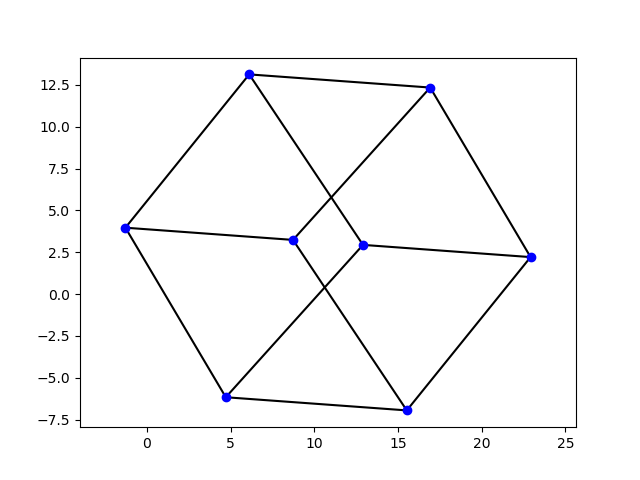
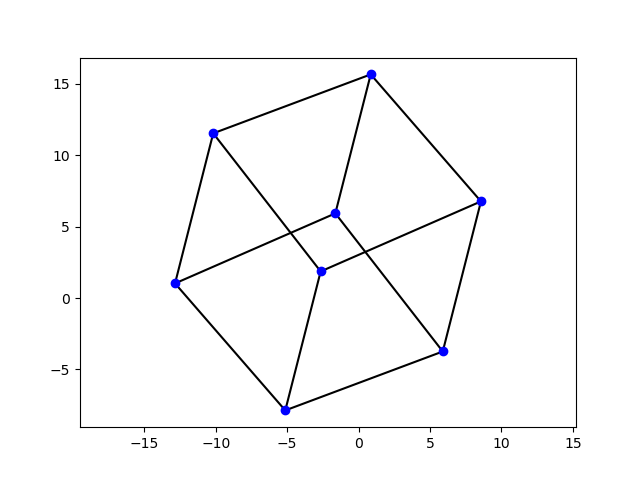
少し修正

diff --git a/symdoc17/kk.html b/symdoc17/kk.html
@@ -22,14 +22,14 @@
 <h2 id="近似解の導出">近似解の導出</h2>
 <p>まず、<span class="math inline">\(\|\frac{d}{d P_{m}} E{\left (P_{m} \right )}\||\)</span>が最大となる添字<span class="math inline">\(i\)</span>を探す(<span class="math inline">\(P_i\)</span>はベクトルであることに注意)。 このとき、<span class="math inline">\(P_i\)</span>の各成分を変数としたときのEのヤコビアンを<span class="math inline">\(J_i\)</span>、ヘッシアンを<span class="math inline">\(H_i\)</span>として <span class="math display">\[H_m \Delta P_m = -J_m\]</span> により変位<span class="math inline">\(\Delta P_i\)</span>を求め、<span class="math inline">\(P_i = P_i + \Delta P_i\)</span>により座標を更新する。 例えば、<span class="math inline">\(i=1\)</span>だとすると、<span class="math inline">\(\Delta P_1を求める式は\)</span> <span class="math display">\[\left(\begin{matrix}\frac{\left(\sqrt{\left(- P_{0,0} + P_{1,0}\right)^{2} + \left(- P_{0,1} + P_{1,1}\right)^{2}} - l_{1,0}\right) k_{1,0}}{2 \sqrt{\left(- P_{0,0} + P_{1,0}\right)^{2} + \left(- P_{0,1} + P_{1,1}\right)^{2}}} + \frac{\left(\sqrt{\left(- P_{0,0} + P_{1,0}\right)^{2} + \left(- P_{0,1} + P_{1,1}\right)^{2}} - l_{1,0}\right) \left(- P_{0,0} + P_{1,0}\right) \left(P_{0,0} - P_{1,0}\right) k_{1,0}}{2 \left(\left(- P_{0,0} + P_{1,0}\right)^{2} + \left(- P_{0,1} + P_{1,1}\right)^{2}\right)^{\frac{3}{2}}} + \frac{\left(\sqrt{\left(P_{0,0} - P_{1,0}\right)^{2} + \left(P_{0,1} - P_{1,1}\right)^{2}} - l_{0,1}\right) k_{0,1}}{2 \sqrt{\left(P_{0,0} - P_{1,0}\right)^{2} + \left(P_{0,1} - P_{1,1}\right)^{2}}} + \frac{k_{0,1}}{2 \left(\left(P_{0,0} - P_{1,0}\right)^{2} + \left(P_{0,1} - P_{1,1}\right)^{2}\right)^{\frac{3}{2}}} \left(\sqrt{\left(P_{0,0} - P_{1,0}\right)^{2} + \left(P_{0,1} - P_{1,1}\right)^{2}} - l_{0,1}\right) \left(- P_{0,0} + P_{1,0}\right) \left(P_{0,0} - P_{1,0}\right) + \frac{\left(\sqrt{\left(- P_{1,0} + P_{2,0}\right)^{2} + \left(- P_{1,1} + P_{2,1}\right)^{2}} - l_{2,1}\right) k_{2,1}}{2 \sqrt{\left(- P_{1,0} + P_{2,0}\right)^{2} + \left(- P_{1,1} + P_{2,1}\right)^{2}}} + \frac{\left(\sqrt{\left(- P_{1,0} + P_{2,0}\right)^{2} + \left(- P_{1,1} + P_{2,1}\right)^{2}} - l_{2,1}\right) \left(- P_{1,0} + P_{2,0}\right) \left(P_{1,0} - P_{2,0}\right) k_{2,1}}{2 \left(\left(- P_{1,0} + P_{2,0}\right)^{2} + \left(- P_{1,1} + P_{2,1}\right)^{2}\right)^{\frac{3}{2}}} + \frac{\left(\sqrt{\left(P_{1,0} - P_{2,0}\right)^{2} + \left(P_{1,1} - P_{2,1}\right)^{2}} - l_{1,2}\right) k_{1,2}}{2 \sqrt{\left(P_{1,0} - P_{2,0}\right)^{2} + \left(P_{1,1} - P_{2,1}\right)^{2}}} + \frac{k_{1,2}}{2 \left(\left(P_{1,0} - P_{2,0}\right)^{2} + \left(P_{1,1} - P_{2,1}\right)^{2}\right)^{\frac{3}{2}}} \left(\sqrt{\left(P_{1,0} - P_{2,0}\right)^{2} + \left(P_{1,1} - P_{2,1}\right)^{2}} - l_{1,2}\right) \left(- P_{1,0} + P_{2,0}\right) \left(P_{1,0} - P_{2,0}\right) + \frac{\left(P_{1,0} - P_{2,0}\right)^{2} k_{1,2}}{2 \left(\left(P_{1,0} - P_{2,0}\right)^{2} + \left(P_{1,1} - P_{2,1}\right)^{2}\right)} + \frac{\left(P_{1,0} - P_{2,0}\right)^{2} k_{2,1}}{2 \left(\left(- P_{1,0} + P_{2,0}\right)^{2} + \left(- P_{1,1} + P_{2,1}\right)^{2}\right)} + \frac{\left(- P_{0,0} + P_{1,0}\right)^{2} k_{0,1}}{2 \left(\left(P_{0,0} - P_{1,0}\right)^{2} + \left(P_{0,1} - P_{1,1}\right)^{2}\right)} + \frac{\left(- P_{0,0} + P_{1,0}\right)^{2} k_{1,0}}{2 \left(\left(- P_{0,0} + P_{1,0}\right)^{2} + \left(- P_{0,1} + P_{1,1}\right)^{2}\right)} &amp; \frac{\left(\sqrt{\left(- P_{0,0} + P_{1,0}\right)^{2} + \left(- P_{0,1} + P_{1,1}\right)^{2}} - l_{1,0}\right) \left(- P_{0,0} + P_{1,0}\right) \left(P_{0,1} - P_{1,1}\right) k_{1,0}}{2 \left(\left(- P_{0,0} + P_{1,0}\right)^{2} + \left(- P_{0,1} + P_{1,1}\right)^{2}\right)^{\frac{3}{2}}} + \frac{k_{0,1}}{2 \left(\left(P_{0,0} - P_{1,0}\right)^{2} + \left(P_{0,1} - P_{1,1}\right)^{2}\right)^{\frac{3}{2}}} \left(\sqrt{\left(P_{0,0} - P_{1,0}\right)^{2} + \left(P_{0,1} - P_{1,1}\right)^{2}} - l_{0,1}\right) \left(- P_{0,0} + P_{1,0}\right) \left(P_{0,1} - P_{1,1}\right) + \frac{\left(\sqrt{\left(- P_{1,0} + P_{2,0}\right)^{2} + \left(- P_{1,1} + P_{2,1}\right)^{2}} - l_{2,1}\right) \left(P_{1,0} - P_{2,0}\right) \left(- P_{1,1} + P_{2,1}\right) k_{2,1}}{2 \left(\left(- P_{1,0} + P_{2,0}\right)^{2} + \left(- P_{1,1} + P_{2,1}\right)^{2}\right)^{\frac{3}{2}}} + \frac{k_{1,2}}{2 \left(\left(P_{1,0} - P_{2,0}\right)^{2} + \left(P_{1,1} - P_{2,1}\right)^{2}\right)^{\frac{3}{2}}} \left(\sqrt{\left(P_{1,0} - P_{2,0}\right)^{2} + \left(P_{1,1} - P_{2,1}\right)^{2}} - l_{1,2}\right) \left(P_{1,0} - P_{2,0}\right) \left(- P_{1,1} + P_{2,1}\right) + \frac{\left(P_{1,0} - P_{2,0}\right) \left(P_{1,1} - P_{2,1}\right) k_{1,2}}{2 \left(\left(P_{1,0} - P_{2,0}\right)^{2} + \left(P_{1,1} - P_{2,1}\right)^{2}\right)} + \frac{\left(P_{1,0} - P_{2,0}\right) \left(P_{1,1} - P_{2,1}\right) k_{2,1}}{2 \left(\left(- P_{1,0} + P_{2,0}\right)^{2} + \left(- P_{1,1} + P_{2,1}\right)^{2}\right)} + \frac{\left(- P_{0,0} + P_{1,0}\right) \left(- P_{0,1} + P_{1,1}\right) k_{0,1}}{2 \left(\left(P_{0,0} - P_{1,0}\right)^{2} + \left(P_{0,1} - P_{1,1}\right)^{2}\right)} + \frac{\left(- P_{0,0} + P_{1,0}\right) \left(- P_{0,1} + P_{1,1}\right) k_{1,0}}{2 \left(\left(- P_{0,0} + P_{1,0}\right)^{2} + \left(- P_{0,1} + P_{1,1}\right)^{2}\right)}\\\frac{\left(\sqrt{\left(- P_{0,0} + P_{1,0}\right)^{2} + \left(- P_{0,1} + P_{1,1}\right)^{2}} - l_{1,0}\right) \left(- P_{0,0} + P_{1,0}\right) \left(P_{0,1} - P_{1,1}\right) k_{1,0}}{2 \left(\left(- P_{0,0} + P_{1,0}\right)^{2} + \left(- P_{0,1} + P_{1,1}\right)^{2}\right)^{\frac{3}{2}}} + \frac{k_{0,1}}{2 \left(\left(P_{0,0} - P_{1,0}\right)^{2} + \left(P_{0,1} - P_{1,1}\right)^{2}\right)^{\frac{3}{2}}} \left(\sqrt{\left(P_{0,0} - P_{1,0}\right)^{2} + \left(P_{0,1} - P_{1,1}\right)^{2}} - l_{0,1}\right) \left(- P_{0,0} + P_{1,0}\right) \left(P_{0,1} - P_{1,1}\right) + \frac{\left(\sqrt{\left(- P_{1,0} + P_{2,0}\right)^{2} + \left(- P_{1,1} + P_{2,1}\right)^{2}} - l_{2,1}\right) \left(P_{1,0} - P_{2,0}\right) \left(- P_{1,1} + P_{2,1}\right) k_{2,1}}{2 \left(\left(- P_{1,0} + P_{2,0}\right)^{2} + \left(- P_{1,1} + P_{2,1}\right)^{2}\right)^{\frac{3}{2}}} + \frac{k_{1,2}}{2 \left(\left(P_{1,0} - P_{2,0}\right)^{2} + \left(P_{1,1} - P_{2,1}\right)^{2}\right)^{\frac{3}{2}}} \left(\sqrt{\left(P_{1,0} - P_{2,0}\right)^{2} + \left(P_{1,1} - P_{2,1}\right)^{2}} - l_{1,2}\right) \left(P_{1,0} - P_{2,0}\right) \left(- P_{1,1} + P_{2,1}\right) + \frac{\left(P_{1,0} - P_{2,0}\right) \left(P_{1,1} - P_{2,1}\right) k_{1,2}}{2 \left(\left(P_{1,0} - P_{2,0}\right)^{2} + \left(P_{1,1} - P_{2,1}\right)^{2}\right)} + \frac{\left(P_{1,0} - P_{2,0}\right) \left(P_{1,1} - P_{2,1}\right) k_{2,1}}{2 \left(\left(- P_{1,0} + P_{2,0}\right)^{2} + \left(- P_{1,1} + P_{2,1}\right)^{2}\right)} + \frac{\left(- P_{0,0} + P_{1,0}\right) \left(- P_{0,1} + P_{1,1}\right) k_{0,1}}{2 \left(\left(P_{0,0} - P_{1,0}\right)^{2} + \left(P_{0,1} - P_{1,1}\right)^{2}\right)} + \frac{\left(- P_{0,0} + P_{1,0}\right) \left(- P_{0,1} + P_{1,1}\right) k_{1,0}}{2 \left(\left(- P_{0,0} + P_{1,0}\right)^{2} + \left(- P_{0,1} + P_{1,1}\right)^{2}\right)} &amp; \frac{\left(\sqrt{\left(- P_{0,0} + P_{1,0}\right)^{2} + \left(- P_{0,1} + P_{1,1}\right)^{2}} - l_{1,0}\right) k_{1,0}}{2 \sqrt{\left(- P_{0,0} + P_{1,0}\right)^{2} + \left(- P_{0,1} + P_{1,1}\right)^{2}}} + \frac{\left(\sqrt{\left(- P_{0,0} + P_{1,0}\right)^{2} + \left(- P_{0,1} + P_{1,1}\right)^{2}} - l_{1,0}\right) \left(- P_{0,1} + P_{1,1}\right) \left(P_{0,1} - P_{1,1}\right) k_{1,0}}{2 \left(\left(- P_{0,0} + P_{1,0}\right)^{2} + \left(- P_{0,1} + P_{1,1}\right)^{2}\right)^{\frac{3}{2}}} + \frac{\left(\sqrt{\left(P_{0,0} - P_{1,0}\right)^{2} + \left(P_{0,1} - P_{1,1}\right)^{2}} - l_{0,1}\right) k_{0,1}}{2 \sqrt{\left(P_{0,0} - P_{1,0}\right)^{2} + \left(P_{0,1} - P_{1,1}\right)^{2}}} + \frac{k_{0,1}}{2 \left(\left(P_{0,0} - P_{1,0}\right)^{2} + \left(P_{0,1} - P_{1,1}\right)^{2}\right)^{\frac{3}{2}}} \left(\sqrt{\left(P_{0,0} - P_{1,0}\right)^{2} + \left(P_{0,1} - P_{1,1}\right)^{2}} - l_{0,1}\right) \left(- P_{0,1} + P_{1,1}\right) \left(P_{0,1} - P_{1,1}\right) + \frac{\left(\sqrt{\left(- P_{1,0} + P_{2,0}\right)^{2} + \left(- P_{1,1} + P_{2,1}\right)^{2}} - l_{2,1}\right) k_{2,1}}{2 \sqrt{\left(- P_{1,0} + P_{2,0}\right)^{2} + \left(- P_{1,1} + P_{2,1}\right)^{2}}} + \frac{\left(\sqrt{\left(- P_{1,0} + P_{2,0}\right)^{2} + \left(- P_{1,1} + P_{2,1}\right)^{2}} - l_{2,1}\right) \left(- P_{1,1} + P_{2,1}\right) \left(P_{1,1} - P_{2,1}\right) k_{2,1}}{2 \left(\left(- P_{1,0} + P_{2,0}\right)^{2} + \left(- P_{1,1} + P_{2,1}\right)^{2}\right)^{\frac{3}{2}}} + \frac{\left(\sqrt{\left(P_{1,0} - P_{2,0}\right)^{2} + \left(P_{1,1} - P_{2,1}\right)^{2}} - l_{1,2}\right) k_{1,2}}{2 \sqrt{\left(P_{1,0} - P_{2,0}\right)^{2} + \left(P_{1,1} - P_{2,1}\right)^{2}}} + \frac{k_{1,2}}{2 \left(\left(P_{1,0} - P_{2,0}\right)^{2} + \left(P_{1,1} - P_{2,1}\right)^{2}\right)^{\frac{3}{2}}} \left(\sqrt{\left(P_{1,0} - P_{2,0}\right)^{2} + \left(P_{1,1} - P_{2,1}\right)^{2}} - l_{1,2}\right) \left(- P_{1,1} + P_{2,1}\right) \left(P_{1,1} - P_{2,1}\right) + \frac{\left(P_{1,1} - P_{2,1}\right)^{2} k_{1,2}}{2 \left(\left(P_{1,0} - P_{2,0}\right)^{2} + \left(P_{1,1} - P_{2,1}\right)^{2}\right)} + \frac{\left(P_{1,1} - P_{2,1}\right)^{2} k_{2,1}}{2 \left(\left(- P_{1,0} + P_{2,0}\right)^{2} + \left(- P_{1,1} + P_{2,1}\right)^{2}\right)} + \frac{\left(- P_{0,1} + P_{1,1}\right)^{2} k_{0,1}}{2 \left(\left(P_{0,0} - P_{1,0}\right)^{2} + \left(P_{0,1} - P_{1,1}\right)^{2}\right)} + \frac{\left(- P_{0,1} + P_{1,1}\right)^{2} k_{1,0}}{2 \left(\left(- P_{0,0} + P_{1,0}\right)^{2} + \left(- P_{0,1} + P_{1,1}\right)^{2}\right)}\end{matrix}\right)\Delta P_1 = -\left(\begin{matrix}\frac{1}{2 \sqrt{\left(P_{0,0} - P_{1,0}\right)^{2} + \left(P_{0,1} - P_{1,1}\right)^{2}} \sqrt{\left(P_{1,0} - P_{2,0}\right)^{2} + \left(P_{1,1} - P_{2,1}\right)^{2}}} \left(- \left(\left(\sqrt{\left(P_{0,0} - P_{1,0}\right)^{2} + \left(P_{0,1} - P_{1,1}\right)^{2}} - l_{0,1}\right) k_{0,1} + \left(\sqrt{\left(P_{0,0} - P_{1,0}\right)^{2} + \left(P_{0,1} - P_{1,1}\right)^{2}} - l_{1,0}\right) k_{1,0}\right) \sqrt{\left(P_{1,0} - P_{2,0}\right)^{2} + \left(P_{1,1} - P_{2,1}\right)^{2}} \left(P_{0,0} - P_{1,0}\right) + \left(\left(\sqrt{\left(P_{1,0} - P_{2,0}\right)^{2} + \left(P_{1,1} - P_{2,1}\right)^{2}} - l_{1,2}\right) k_{1,2} + \left(\sqrt{\left(P_{1,0} - P_{2,0}\right)^{2} + \left(P_{1,1} - P_{2,1}\right)^{2}} - l_{2,1}\right) k_{2,1}\right) \sqrt{\left(P_{0,0} - P_{1,0}\right)^{2} + \left(P_{0,1} - P_{1,1}\right)^{2}} \left(P_{1,0} - P_{2,0}\right)\right)\\\frac{1}{2 \sqrt{\left(P_{0,0} - P_{1,0}\right)^{2} + \left(P_{0,1} - P_{1,1}\right)^{2}} \sqrt{\left(P_{1,0} - P_{2,0}\right)^{2} + \left(P_{1,1} - P_{2,1}\right)^{2}}} \left(- \left(\left(\sqrt{\left(P_{0,0} - P_{1,0}\right)^{2} + \left(P_{0,1} - P_{1,1}\right)^{2}} - l_{0,1}\right) k_{0,1} + \left(\sqrt{\left(P_{0,0} - P_{1,0}\right)^{2} + \left(P_{0,1} - P_{1,1}\right)^{2}} - l_{1,0}\right) k_{1,0}\right) \sqrt{\left(P_{1,0} - P_{2,0}\right)^{2} + \left(P_{1,1} - P_{2,1}\right)^{2}} \left(P_{0,1} - P_{1,1}\right) + \left(\left(\sqrt{\left(P_{1,0} - P_{2,0}\right)^{2} + \left(P_{1,1} - P_{2,1}\right)^{2}} - l_{1,2}\right) k_{1,2} + \left(\sqrt{\left(P_{1,0} - P_{2,0}\right)^{2} + \left(P_{1,1} - P_{2,1}\right)^{2}} - l_{2,1}\right) k_{2,1}\right) \sqrt{\left(P_{0,0} - P_{1,0}\right)^{2} + \left(P_{0,1} - P_{1,1}\right)^{2}} \left(P_{1,1} - P_{2,1}\right)\right)\end{matrix}\right) \]</span> となる。 以上を繰り返し、<span class="math inline">\(max_i \|\frac{d}{d P_{m}} E{\left (P_{m} \right )}\||\)</span>が十分小さくなったら更新を終了して その時の座標を力学的エネルギー<span class="math inline">\(E\)</span>が最小となる解とする</p>
 <h2 id="グラフdouble_triangleの描画">グラフdouble_triangleの描画</h2>
-<p>頂点を['0', '1', '2', '3', '4', '5']、隣接する点のリストを[&quot;['2', '3']&quot;, &quot;['4', '5']&quot;, &quot;['0', '3', '5']&quot;, &quot;['0', '2']&quot;, &quot;['1', '5']&quot;, &quot;['1', '2', '4']&quot;]とすると、最短経路行列<span class="math inline">\(D\)</span>,ばね定数行列<span class="math inline">\(K\)</span>,自然長行列<span class="math inline">\(L\)</span>は次のようになる。 <span class="math display">\[D = \left(\begin{matrix}2.0 &amp; 3.0 &amp; 1.0 &amp; 1.0 &amp; 3.0 &amp; 2.0\\3.0 &amp; 2.0 &amp; 2.0 &amp; 3.0 &amp; 1.0 &amp; 1.0\\1.0 &amp; 2.0 &amp; 2.0 &amp; 1.0 &amp; 2.0 &amp; 1.0\\1.0 &amp; 3.0 &amp; 1.0 &amp; 2.0 &amp; 3.0 &amp; 2.0\\3.0 &amp; 1.0 &amp; 2.0 &amp; 3.0 &amp; 2.0 &amp; 1.0\\2.0 &amp; 1.0 &amp; 1.0 &amp; 2.0 &amp; 1.0 &amp; 2.0\end{matrix}\right),K = \left(\begin{matrix}0.0 &amp; 1.11111111111111 &amp; 10.0 &amp; 10.0 &amp; 1.11111111111111 &amp; 2.5\\1.11111111111111 &amp; 0.0 &amp; 2.5 &amp; 1.11111111111111 &amp; 10.0 &amp; 10.0\\10.0 &amp; 2.5 &amp; 0.0 &amp; 10.0 &amp; 2.5 &amp; 10.0\\10.0 &amp; 1.11111111111111 &amp; 10.0 &amp; 0.0 &amp; 1.11111111111111 &amp; 2.5\\1.11111111111111 &amp; 10.0 &amp; 2.5 &amp; 1.11111111111111 &amp; 0.0 &amp; 10.0\\2.5 &amp; 10.0 &amp; 10.0 &amp; 2.5 &amp; 10.0 &amp; 0.0\end{matrix}\right),L = \left(\begin{matrix}0.0 &amp; 30.0 &amp; 10.0 &amp; 10.0 &amp; 30.0 &amp; 20.0\\30.0 &amp; 0.0 &amp; 20.0 &amp; 30.0 &amp; 10.0 &amp; 10.0\\10.0 &amp; 20.0 &amp; 0.0 &amp; 10.0 &amp; 20.0 &amp; 10.0\\10.0 &amp; 30.0 &amp; 10.0 &amp; 0.0 &amp; 30.0 &amp; 20.0\\30.0 &amp; 10.0 &amp; 20.0 &amp; 30.0 &amp; 0.0 &amp; 10.0\\20.0 &amp; 10.0 &amp; 10.0 &amp; 20.0 &amp; 10.0 &amp; 0.0\end{matrix}\right)\]</span> このとき、ランダム生成した座標からkamada-kawai法により頂点位置の最適化を行なうと、頂点座標は次のようになる。 <span class="math display">\[P = \left(\begin{matrix}10.0153452000519 &amp; -4.78212568783798\\-15.6209409469126 &amp; 10.76297622507\\0.506545926573067 &amp; -1.02375439811795\\2.38115183423247 &amp; -11.0750773868165\\-7.9870170861673 &amp; 17.0562028552577\\-6.11194112407809 &amp; 7.0049680118998\end{matrix}\right)\]</span></p>
+<p>頂点を['0', '1', '2', '3', '4', '5']、隣接する点のリストを[&quot;['2', '3']&quot;, &quot;['4', '5']&quot;, &quot;['0', '3', '5']&quot;, &quot;['0', '2']&quot;, &quot;['1', '5']&quot;, &quot;['1', '2', '4']&quot;]とすると、最短経路行列<span class="math inline">\(D\)</span>,ばね定数行列<span class="math inline">\(K\)</span>,自然長行列<span class="math inline">\(L\)</span>は次のようになる。 <span class="math display">\[D = \left(\begin{matrix}2.0 &amp; 3.0 &amp; 1.0 &amp; 1.0 &amp; 3.0 &amp; 2.0\\3.0 &amp; 2.0 &amp; 2.0 &amp; 3.0 &amp; 1.0 &amp; 1.0\\1.0 &amp; 2.0 &amp; 2.0 &amp; 1.0 &amp; 2.0 &amp; 1.0\\1.0 &amp; 3.0 &amp; 1.0 &amp; 2.0 &amp; 3.0 &amp; 2.0\\3.0 &amp; 1.0 &amp; 2.0 &amp; 3.0 &amp; 2.0 &amp; 1.0\\2.0 &amp; 1.0 &amp; 1.0 &amp; 2.0 &amp; 1.0 &amp; 2.0\end{matrix}\right),K = \left(\begin{matrix}0.0 &amp; 1.11111111111111 &amp; 10.0 &amp; 10.0 &amp; 1.11111111111111 &amp; 2.5\\1.11111111111111 &amp; 0.0 &amp; 2.5 &amp; 1.11111111111111 &amp; 10.0 &amp; 10.0\\10.0 &amp; 2.5 &amp; 0.0 &amp; 10.0 &amp; 2.5 &amp; 10.0\\10.0 &amp; 1.11111111111111 &amp; 10.0 &amp; 0.0 &amp; 1.11111111111111 &amp; 2.5\\1.11111111111111 &amp; 10.0 &amp; 2.5 &amp; 1.11111111111111 &amp; 0.0 &amp; 10.0\\2.5 &amp; 10.0 &amp; 10.0 &amp; 2.5 &amp; 10.0 &amp; 0.0\end{matrix}\right),L = \left(\begin{matrix}0.0 &amp; 30.0 &amp; 10.0 &amp; 10.0 &amp; 30.0 &amp; 20.0\\30.0 &amp; 0.0 &amp; 20.0 &amp; 30.0 &amp; 10.0 &amp; 10.0\\10.0 &amp; 20.0 &amp; 0.0 &amp; 10.0 &amp; 20.0 &amp; 10.0\\10.0 &amp; 30.0 &amp; 10.0 &amp; 0.0 &amp; 30.0 &amp; 20.0\\30.0 &amp; 10.0 &amp; 20.0 &amp; 30.0 &amp; 0.0 &amp; 10.0\\20.0 &amp; 10.0 &amp; 10.0 &amp; 20.0 &amp; 10.0 &amp; 0.0\end{matrix}\right)\]</span> このとき、ランダム生成した座標からkamada-kawai法により頂点位置の最適化を行なうと、頂点座標は次のようになる。 <span class="math display">\[P = \left(\begin{matrix}-16.4912255605531 &amp; -1.89219518309712\\4.67379361564487 &amp; -20.6809756065376\\-6.51518029198303 &amp; -4.13322957125895\\-9.92327917305086 &amp; 5.50669496027274\\11.2420455112549 &amp; -13.2823128128761\\1.26614101082084 &amp; -11.0408920657143\end{matrix}\right)\]</span></p>
 <p>プロットした画像は次のようになる。</p>
 <div class="figure">
 <img src="pics/double_triangle.png" alt="img" />
 <p class="caption">img</p>
 </div>
 <h2 id="グラフcubeの描画">グラフcubeの描画</h2>
-<p>頂点を['0', '1', '2', '3', '4', '5', '6', '7']、隣接する点のリストを[&quot;['1', '3', '4']&quot;, &quot;['0', '2', '5']&quot;, &quot;['1', '3', '6']&quot;, &quot;['0', '2', '7']&quot;, &quot;['0', '5', '7']&quot;, &quot;['1', '4', '6']&quot;, &quot;['2', '5', '7']&quot;, &quot;['3', '4', '6']&quot;]とすると、最短経路行列<span class="math inline">\(D\)</span>,ばね定数行列<span class="math inline">\(K\)</span>,自然長行列<span class="math inline">\(L\)</span>は次のようになる。 <span class="math display">\[D = \left(\begin{matrix}2.0 &amp; 1.0 &amp; 2.0 &amp; 1.0 &amp; 1.0 &amp; 2.0 &amp; 3.0 &amp; 2.0\\1.0 &amp; 2.0 &amp; 1.0 &amp; 2.0 &amp; 2.0 &amp; 1.0 &amp; 2.0 &amp; 3.0\\2.0 &amp; 1.0 &amp; 2.0 &amp; 1.0 &amp; 3.0 &amp; 2.0 &amp; 1.0 &amp; 2.0\\1.0 &amp; 2.0 &amp; 1.0 &amp; 2.0 &amp; 2.0 &amp; 3.0 &amp; 2.0 &amp; 1.0\\1.0 &amp; 2.0 &amp; 3.0 &amp; 2.0 &amp; 2.0 &amp; 1.0 &amp; 2.0 &amp; 1.0\\2.0 &amp; 1.0 &amp; 2.0 &amp; 3.0 &amp; 1.0 &amp; 2.0 &amp; 1.0 &amp; 2.0\\3.0 &amp; 2.0 &amp; 1.0 &amp; 2.0 &amp; 2.0 &amp; 1.0 &amp; 2.0 &amp; 1.0\\2.0 &amp; 3.0 &amp; 2.0 &amp; 1.0 &amp; 1.0 &amp; 2.0 &amp; 1.0 &amp; 2.0\end{matrix}\right),K = \left(\begin{matrix}0.0 &amp; 10.0 &amp; 2.5 &amp; 10.0 &amp; 10.0 &amp; 2.5 &amp; 1.11111111111111 &amp; 2.5\\10.0 &amp; 0.0 &amp; 10.0 &amp; 2.5 &amp; 2.5 &amp; 10.0 &amp; 2.5 &amp; 1.11111111111111\\2.5 &amp; 10.0 &amp; 0.0 &amp; 10.0 &amp; 1.11111111111111 &amp; 2.5 &amp; 10.0 &amp; 2.5\\10.0 &amp; 2.5 &amp; 10.0 &amp; 0.0 &amp; 2.5 &amp; 1.11111111111111 &amp; 2.5 &amp; 10.0\\10.0 &amp; 2.5 &amp; 1.11111111111111 &amp; 2.5 &amp; 0.0 &amp; 10.0 &amp; 2.5 &amp; 10.0\\2.5 &amp; 10.0 &amp; 2.5 &amp; 1.11111111111111 &amp; 10.0 &amp; 0.0 &amp; 10.0 &amp; 2.5\\1.11111111111111 &amp; 2.5 &amp; 10.0 &amp; 2.5 &amp; 2.5 &amp; 10.0 &amp; 0.0 &amp; 10.0\\2.5 &amp; 1.11111111111111 &amp; 2.5 &amp; 10.0 &amp; 10.0 &amp; 2.5 &amp; 10.0 &amp; 0.0\end{matrix}\right),L = \left(\begin{matrix}0.0 &amp; 10.0 &amp; 20.0 &amp; 10.0 &amp; 10.0 &amp; 20.0 &amp; 30.0 &amp; 20.0\\10.0 &amp; 0.0 &amp; 10.0 &amp; 20.0 &amp; 20.0 &amp; 10.0 &amp; 20.0 &amp; 30.0\\20.0 &amp; 10.0 &amp; 0.0 &amp; 10.0 &amp; 30.0 &amp; 20.0 &amp; 10.0 &amp; 20.0\\10.0 &amp; 20.0 &amp; 10.0 &amp; 0.0 &amp; 20.0 &amp; 30.0 &amp; 20.0 &amp; 10.0\\10.0 &amp; 20.0 &amp; 30.0 &amp; 20.0 &amp; 0.0 &amp; 10.0 &amp; 20.0 &amp; 10.0\\20.0 &amp; 10.0 &amp; 20.0 &amp; 30.0 &amp; 10.0 &amp; 0.0 &amp; 10.0 &amp; 20.0\\30.0 &amp; 20.0 &amp; 10.0 &amp; 20.0 &amp; 20.0 &amp; 10.0 &amp; 0.0 &amp; 10.0\\20.0 &amp; 30.0 &amp; 20.0 &amp; 10.0 &amp; 10.0 &amp; 20.0 &amp; 10.0 &amp; 0.0\end{matrix}\right)\]</span> このとき、ランダム生成した座標からkamada-kawai法により頂点位置の最適化を行なうと、頂点座標は次のようになる。 <span class="math display">\[P = \left(\begin{matrix}8.72943602668481 &amp; 3.23905673749775\\15.5280870507712 &amp; -6.94650275884476\\4.714943362793 &amp; -6.16056225587634\\-1.28270289126781 &amp; 3.96868156153436\\16.9263133044473 &amp; 12.3416486584704\\22.9239485695035 &amp; 2.2123941380819\\12.9118135158373 &amp; 2.94207317764793\\6.11314925797029 &amp; 13.127590656225\end{matrix}\right)\]</span></p>
+<p>頂点を['0', '1', '2', '3', '4', '5', '6', '7']、隣接する点のリストを[&quot;['1', '3', '4']&quot;, &quot;['0', '2', '5']&quot;, &quot;['1', '3', '6']&quot;, &quot;['0', '2', '7']&quot;, &quot;['0', '5', '7']&quot;, &quot;['1', '4', '6']&quot;, &quot;['2', '5', '7']&quot;, &quot;['3', '4', '6']&quot;]とすると、最短経路行列<span class="math inline">\(D\)</span>,ばね定数行列<span class="math inline">\(K\)</span>,自然長行列<span class="math inline">\(L\)</span>は次のようになる。 <span class="math display">\[D = \left(\begin{matrix}2.0 &amp; 1.0 &amp; 2.0 &amp; 1.0 &amp; 1.0 &amp; 2.0 &amp; 3.0 &amp; 2.0\\1.0 &amp; 2.0 &amp; 1.0 &amp; 2.0 &amp; 2.0 &amp; 1.0 &amp; 2.0 &amp; 3.0\\2.0 &amp; 1.0 &amp; 2.0 &amp; 1.0 &amp; 3.0 &amp; 2.0 &amp; 1.0 &amp; 2.0\\1.0 &amp; 2.0 &amp; 1.0 &amp; 2.0 &amp; 2.0 &amp; 3.0 &amp; 2.0 &amp; 1.0\\1.0 &amp; 2.0 &amp; 3.0 &amp; 2.0 &amp; 2.0 &amp; 1.0 &amp; 2.0 &amp; 1.0\\2.0 &amp; 1.0 &amp; 2.0 &amp; 3.0 &amp; 1.0 &amp; 2.0 &amp; 1.0 &amp; 2.0\\3.0 &amp; 2.0 &amp; 1.0 &amp; 2.0 &amp; 2.0 &amp; 1.0 &amp; 2.0 &amp; 1.0\\2.0 &amp; 3.0 &amp; 2.0 &amp; 1.0 &amp; 1.0 &amp; 2.0 &amp; 1.0 &amp; 2.0\end{matrix}\right),K = \left(\begin{matrix}0.0 &amp; 10.0 &amp; 2.5 &amp; 10.0 &amp; 10.0 &amp; 2.5 &amp; 1.11111111111111 &amp; 2.5\\10.0 &amp; 0.0 &amp; 10.0 &amp; 2.5 &amp; 2.5 &amp; 10.0 &amp; 2.5 &amp; 1.11111111111111\\2.5 &amp; 10.0 &amp; 0.0 &amp; 10.0 &amp; 1.11111111111111 &amp; 2.5 &amp; 10.0 &amp; 2.5\\10.0 &amp; 2.5 &amp; 10.0 &amp; 0.0 &amp; 2.5 &amp; 1.11111111111111 &amp; 2.5 &amp; 10.0\\10.0 &amp; 2.5 &amp; 1.11111111111111 &amp; 2.5 &amp; 0.0 &amp; 10.0 &amp; 2.5 &amp; 10.0\\2.5 &amp; 10.0 &amp; 2.5 &amp; 1.11111111111111 &amp; 10.0 &amp; 0.0 &amp; 10.0 &amp; 2.5\\1.11111111111111 &amp; 2.5 &amp; 10.0 &amp; 2.5 &amp; 2.5 &amp; 10.0 &amp; 0.0 &amp; 10.0\\2.5 &amp; 1.11111111111111 &amp; 2.5 &amp; 10.0 &amp; 10.0 &amp; 2.5 &amp; 10.0 &amp; 0.0\end{matrix}\right),L = \left(\begin{matrix}0.0 &amp; 10.0 &amp; 20.0 &amp; 10.0 &amp; 10.0 &amp; 20.0 &amp; 30.0 &amp; 20.0\\10.0 &amp; 0.0 &amp; 10.0 &amp; 20.0 &amp; 20.0 &amp; 10.0 &amp; 20.0 &amp; 30.0\\20.0 &amp; 10.0 &amp; 0.0 &amp; 10.0 &amp; 30.0 &amp; 20.0 &amp; 10.0 &amp; 20.0\\10.0 &amp; 20.0 &amp; 10.0 &amp; 0.0 &amp; 20.0 &amp; 30.0 &amp; 20.0 &amp; 10.0\\10.0 &amp; 20.0 &amp; 30.0 &amp; 20.0 &amp; 0.0 &amp; 10.0 &amp; 20.0 &amp; 10.0\\20.0 &amp; 10.0 &amp; 20.0 &amp; 30.0 &amp; 10.0 &amp; 0.0 &amp; 10.0 &amp; 20.0\\30.0 &amp; 20.0 &amp; 10.0 &amp; 20.0 &amp; 20.0 &amp; 10.0 &amp; 0.0 &amp; 10.0\\20.0 &amp; 30.0 &amp; 20.0 &amp; 10.0 &amp; 10.0 &amp; 20.0 &amp; 10.0 &amp; 0.0\end{matrix}\right)\]</span> このとき、ランダム生成した座標からkamada-kawai法により頂点位置の最適化を行なうと、頂点座標は次のようになる。 <span class="math display">\[P = \left(\begin{matrix}-5.13062160173884 &amp; -7.86762269413086\\5.89475420395003 &amp; -3.74275596540865\\-1.62626747055758 &amp; 5.92577672867832\\-12.8477788740972 &amp; 1.02224145727217\\-2.65334018396386 &amp; 1.8606042453694\\8.56813141224908 &amp; 6.76416070923899\\0.850956487510959 &amp; 15.6540182671539\\-10.1744073342397 &amp; 11.5291365304607\end{matrix}\right)\]</span></p>
 <p>プロットした画像は次のようになる。</p>
 <div class="figure">
 <img src="pics/cube.png" alt="img" />

diff --git a/symdoc17/kk.py b/symdoc17/kk.py
@@ -162,11 +162,19 @@ def setting(name,nodeList,consList,L0=10,K0=10,eps=0.01,dim=2):
     adj = convertToMatrix(nodeList,consList)
     D = warshall_floyd(adj)
 
-    P = np.array(L0*np.random.rand(n*dim).reshape(n,dim),dtype=object)
+    if(dim==2):
+        P = np.array(np.zeros((n,dim)),dtype=object)
+        for m in range(n):
+            P[m,0] = np.cos(2*np.pi/n*m)
+            P[m,1] = np.sin(2*np.pi/n*m)
+    else:
+        P = np.array(L0*np.random.rand(n*dim).reshape(n,dim),dtype=object)
+
     L = L0 * D * (-np.eye(n)+np.ones([n,n]))
     K = K0 * D**(-2) * (-np.eye(n)+np.ones([n,n]))
 
     P = kk_ver1(P,K,L)
+    #P = kk_ver2(P,K,L)
 
     if(dim==2):
         draw_2Dgraph(adj,P,name)

diff --git a/symdoc17/kk.md b/symdoc17/kk.md
@@ -53,7 +53,7 @@ $$\left(\begin{matrix}\frac{\left(\sqrt{\left(- P_{0,0} + P_{1,0}\right)^{2} + \
 頂点を['0', '1', '2', '3', '4', '5']、隣接する点のリストを["['2', '3']", "['4', '5']", "['0', '3', '5']", "['0', '2']", "['1', '5']", "['1', '2', '4']"]とすると、最短経路行列$D$,ばね定数行列$K$,自然長行列$L$は次のようになる。
 $$D = \left(\begin{matrix}2.0 & 3.0 & 1.0 & 1.0 & 3.0 & 2.0\\3.0 & 2.0 & 2.0 & 3.0 & 1.0 & 1.0\\1.0 & 2.0 & 2.0 & 1.0 & 2.0 & 1.0\\1.0 & 3.0 & 1.0 & 2.0 & 3.0 & 2.0\\3.0 & 1.0 & 2.0 & 3.0 & 2.0 & 1.0\\2.0 & 1.0 & 1.0 & 2.0 & 1.0 & 2.0\end{matrix}\right),K = \left(\begin{matrix}0.0 & 1.11111111111111 & 10.0 & 10.0 & 1.11111111111111 & 2.5\\1.11111111111111 & 0.0 & 2.5 & 1.11111111111111 & 10.0 & 10.0\\10.0 & 2.5 & 0.0 & 10.0 & 2.5 & 10.0\\10.0 & 1.11111111111111 & 10.0 & 0.0 & 1.11111111111111 & 2.5\\1.11111111111111 & 10.0 & 2.5 & 1.11111111111111 & 0.0 & 10.0\\2.5 & 10.0 & 10.0 & 2.5 & 10.0 & 0.0\end{matrix}\right),L = \left(\begin{matrix}0.0 & 30.0 & 10.0 & 10.0 & 30.0 & 20.0\\30.0 & 0.0 & 20.0 & 30.0 & 10.0 & 10.0\\10.0 & 20.0 & 0.0 & 10.0 & 20.0 & 10.0\\10.0 & 30.0 & 10.0 & 0.0 & 30.0 & 20.0\\30.0 & 10.0 & 20.0 & 30.0 & 0.0 & 10.0\\20.0 & 10.0 & 10.0 & 20.0 & 10.0 & 0.0\end{matrix}\right)$$
 このとき、ランダム生成した座標からkamada-kawai法により頂点位置の最適化を行なうと、頂点座標は次のようになる。
-$$P = \left(\begin{matrix}10.0153452000519 & -4.78212568783798\\-15.6209409469126 & 10.76297622507\\0.506545926573067 & -1.02375439811795\\2.38115183423247 & -11.0750773868165\\-7.9870170861673 & 17.0562028552577\\-6.11194112407809 & 7.0049680118998\end{matrix}\right)$$
+$$P = \left(\begin{matrix}-16.4912255605531 & -1.89219518309712\\4.67379361564487 & -20.6809756065376\\-6.51518029198303 & -4.13322957125895\\-9.92327917305086 & 5.50669496027274\\11.2420455112549 & -13.2823128128761\\1.26614101082084 & -11.0408920657143\end{matrix}\right)$$
 
 プロットした画像は次のようになる。
 
@@ -67,7 +67,7 @@ $$P = \left(\begin{matrix}10.0153452000519 & -4.78212568783798\\-15.620940946912
 頂点を['0', '1', '2', '3', '4', '5', '6', '7']、隣接する点のリストを["['1', '3', '4']", "['0', '2', '5']", "['1', '3', '6']", "['0', '2', '7']", "['0', '5', '7']", "['1', '4', '6']", "['2', '5', '7']", "['3', '4', '6']"]とすると、最短経路行列$D$,ばね定数行列$K$,自然長行列$L$は次のようになる。
 $$D = \left(\begin{matrix}2.0 & 1.0 & 2.0 & 1.0 & 1.0 & 2.0 & 3.0 & 2.0\\1.0 & 2.0 & 1.0 & 2.0 & 2.0 & 1.0 & 2.0 & 3.0\\2.0 & 1.0 & 2.0 & 1.0 & 3.0 & 2.0 & 1.0 & 2.0\\1.0 & 2.0 & 1.0 & 2.0 & 2.0 & 3.0 & 2.0 & 1.0\\1.0 & 2.0 & 3.0 & 2.0 & 2.0 & 1.0 & 2.0 & 1.0\\2.0 & 1.0 & 2.0 & 3.0 & 1.0 & 2.0 & 1.0 & 2.0\\3.0 & 2.0 & 1.0 & 2.0 & 2.0 & 1.0 & 2.0 & 1.0\\2.0 & 3.0 & 2.0 & 1.0 & 1.0 & 2.0 & 1.0 & 2.0\end{matrix}\right),K = \left(\begin{matrix}0.0 & 10.0 & 2.5 & 10.0 & 10.0 & 2.5 & 1.11111111111111 & 2.5\\10.0 & 0.0 & 10.0 & 2.5 & 2.5 & 10.0 & 2.5 & 1.11111111111111\\2.5 & 10.0 & 0.0 & 10.0 & 1.11111111111111 & 2.5 & 10.0 & 2.5\\10.0 & 2.5 & 10.0 & 0.0 & 2.5 & 1.11111111111111 & 2.5 & 10.0\\10.0 & 2.5 & 1.11111111111111 & 2.5 & 0.0 & 10.0 & 2.5 & 10.0\\2.5 & 10.0 & 2.5 & 1.11111111111111 & 10.0 & 0.0 & 10.0 & 2.5\\1.11111111111111 & 2.5 & 10.0 & 2.5 & 2.5 & 10.0 & 0.0 & 10.0\\2.5 & 1.11111111111111 & 2.5 & 10.0 & 10.0 & 2.5 & 10.0 & 0.0\end{matrix}\right),L = \left(\begin{matrix}0.0 & 10.0 & 20.0 & 10.0 & 10.0 & 20.0 & 30.0 & 20.0\\10.0 & 0.0 & 10.0 & 20.0 & 20.0 & 10.0 & 20.0 & 30.0\\20.0 & 10.0 & 0.0 & 10.0 & 30.0 & 20.0 & 10.0 & 20.0\\10.0 & 20.0 & 10.0 & 0.0 & 20.0 & 30.0 & 20.0 & 10.0\\10.0 & 20.0 & 30.0 & 20.0 & 0.0 & 10.0 & 20.0 & 10.0\\20.0 & 10.0 & 20.0 & 30.0 & 10.0 & 0.0 & 10.0 & 20.0\\30.0 & 20.0 & 10.0 & 20.0 & 20.0 & 10.0 & 0.0 & 10.0\\20.0 & 30.0 & 20.0 & 10.0 & 10.0 & 20.0 & 10.0 & 0.0\end{matrix}\right)$$
 このとき、ランダム生成した座標からkamada-kawai法により頂点位置の最適化を行なうと、頂点座標は次のようになる。
-$$P = \left(\begin{matrix}8.72943602668481 & 3.23905673749775\\15.5280870507712 & -6.94650275884476\\4.714943362793 & -6.16056225587634\\-1.28270289126781 & 3.96868156153436\\16.9263133044473 & 12.3416486584704\\22.9239485695035 & 2.2123941380819\\12.9118135158373 & 2.94207317764793\\6.11314925797029 & 13.127590656225\end{matrix}\right)$$
+$$P = \left(\begin{matrix}-5.13062160173884 & -7.86762269413086\\5.89475420395003 & -3.74275596540865\\-1.62626747055758 & 5.92577672867832\\-12.8477788740972 & 1.02224145727217\\-2.65334018396386 & 1.8606042453694\\8.56813141224908 & 6.76416070923899\\0.850956487510959 & 15.6540182671539\\-10.1744073342397 & 11.5291365304607\end{matrix}\right)$$
 
 プロットした画像は次のようになる。
 
